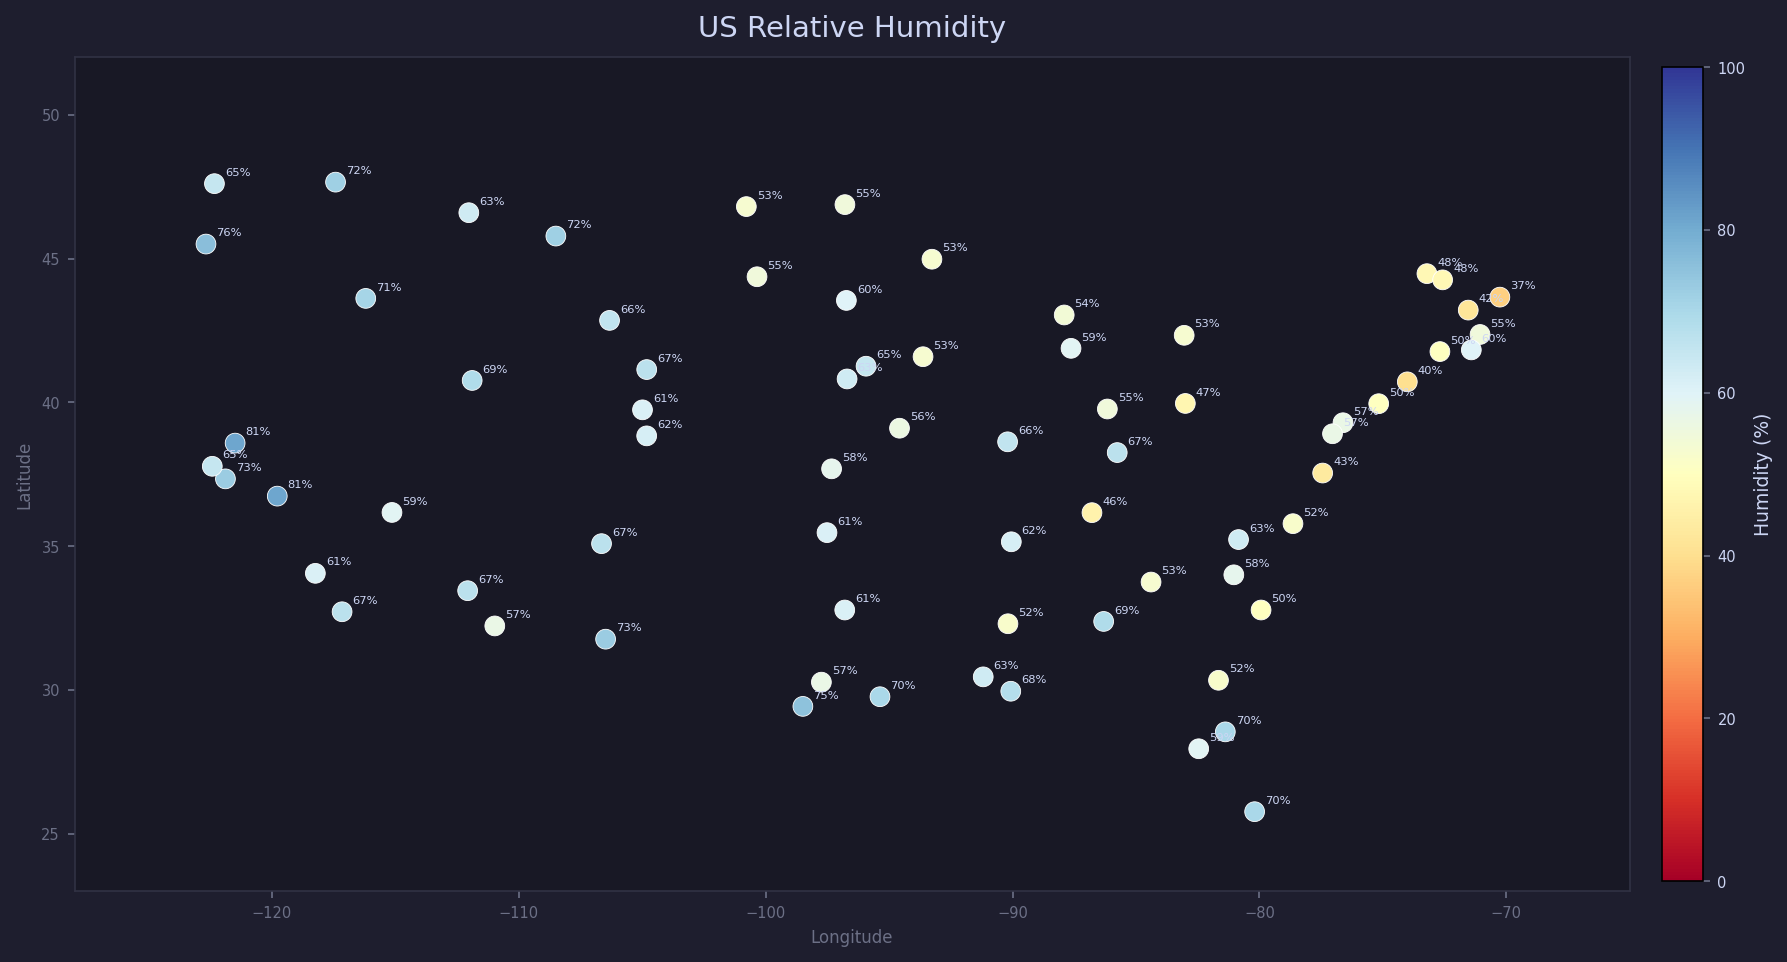
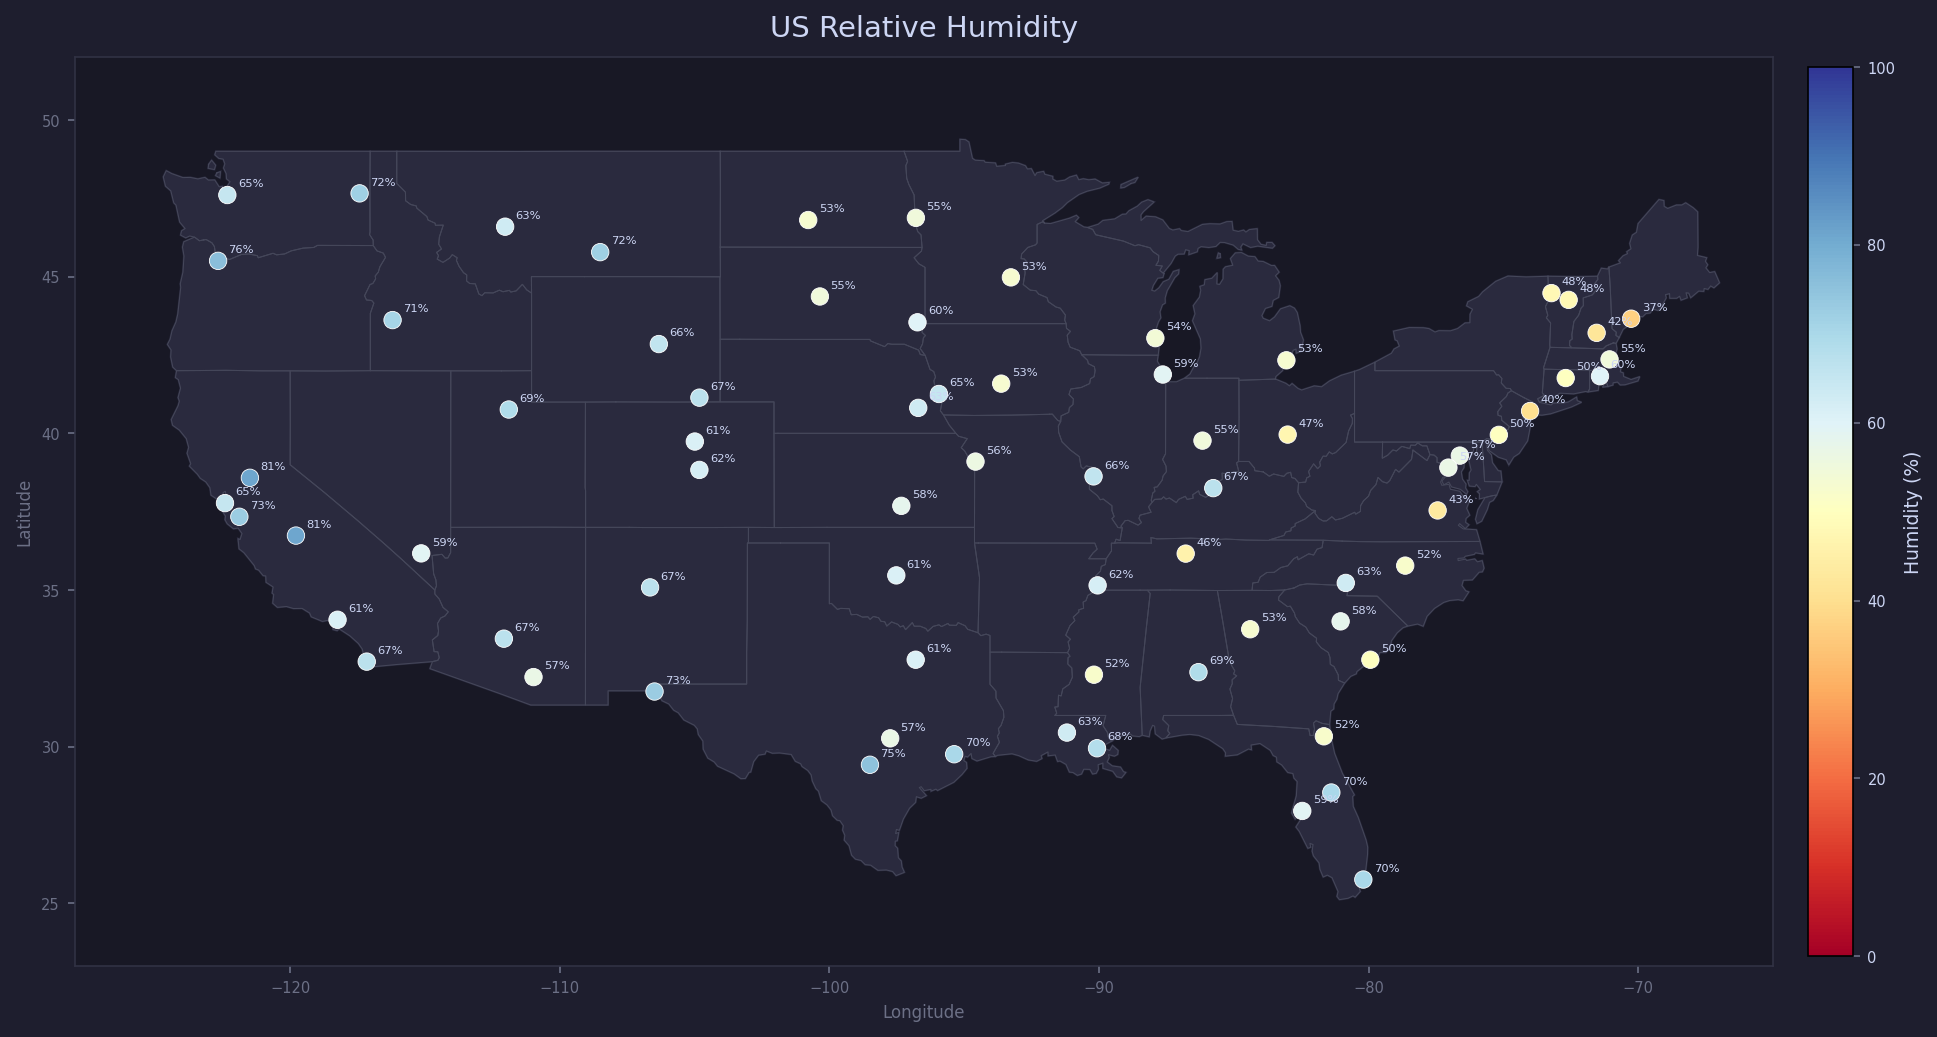
add state outlines to preview and gui map

diff --git a/generate_preview.py b/generate_preview.py
@@ -1,5 +1,8 @@
 """Run once to generate preview.png for the README."""
+import json
+import os
 import numpy as np
+import requests
 import matplotlib
 matplotlib.use("Agg")
 import matplotlib.pyplot as plt
@@ -7,22 +10,46 @@ import matplotlib.colors as mcolors
 
 from cities import CITIES
 
+GEOJSON_URL = "https://raw.githubusercontent.com/PublicaMundi/MappingAPI/master/data/geojson/us-states.json"
+GEOJSON_CACHE = "states.json"
+
+XLIM = (-128, -65)
+YLIM = (23,  52)
+
+
+def load_states():
+    if not os.path.exists(GEOJSON_CACHE):
+        print("downloading state boundaries...")
+        r = requests.get(GEOJSON_URL, timeout=15)
+        r.raise_for_status()
+        with open(GEOJSON_CACHE, "w") as f:
+            f.write(r.text)
+    with open(GEOJSON_CACHE) as f:
+        return json.load(f)
+
+
+def draw_states(ax, states):
+    for feature in states["features"]:
+        geom = feature["geometry"]
+        polys = (geom["coordinates"] if geom["type"] == "Polygon"
+                 else [p for p in geom["coordinates"]])
+        for poly in polys:
+            coords = poly if geom["type"] == "Polygon" else poly[0]
+            xs = [c[0] for c in coords]
+            ys = [c[1] for c in coords]
+            ax.fill(xs, ys, color="#2a2a3e", zorder=1)
+            ax.plot(xs, ys, color="#45475a", linewidth=0.5, zorder=2)
+
+
 np.random.seed(7)
 
-# Fake but geographically plausible humidity: southeast humid, southwest dry
 def sample_humidity(lat, lon):
-    base = 60
-    base -= (lon + 90) * 0.4   # drier further west
-    base += (lat - 35) * -0.5  # slightly more humid in south
-    base += np.random.uniform(-12, 12)
-    return int(np.clip(base, 10, 98))
+    base = 60 - (lon + 90) * 0.4 + (lat - 35) * -0.5
+    return int(np.clip(base + np.random.uniform(-12, 12), 10, 98))
 
 humidity = {city: sample_humidity(lat, lon) for city, (lat, lon) in CITIES.items()}
 
-XLIM = (-128, -65)
-YLIM = (23, 52)
-
-fig, ax = plt.subplots(figsize=(12, 6.5), facecolor="#1e1e2e")
+fig, ax = plt.subplots(figsize=(13, 7), facecolor="#1e1e2e")
 ax.set_facecolor("#181825")
 ax.set_xlim(*XLIM)
 ax.set_ylim(*YLIM)
@@ -33,6 +60,9 @@ ax.tick_params(colors="#6c7086", labelsize=7)
 for spine in ax.spines.values():
     spine.set_edgecolor("#313244")
 
+states = load_states()
+draw_states(ax, states)
+
 lons  = [CITIES[c][1] for c in humidity if XLIM[0] <= CITIES[c][1] <= XLIM[1] and YLIM[0] <= CITIES[c][0] <= YLIM[1]]
 lats  = [CITIES[c][0] for c in humidity if XLIM[0] <= CITIES[c][1] <= XLIM[1] and YLIM[0] <= CITIES[c][0] <= YLIM[1]]
 vals  = [humidity[c]  for c in humidity if XLIM[0] <= CITIES[c][1] <= XLIM[1] and YLIM[0] <= CITIES[c][0] <= YLIM[1]]
@@ -40,7 +70,7 @@ names = [c            for c in humidity if XLIM[0] <= CITIES[c][1] <= XLIM[1] an
 
 norm = mcolors.Normalize(vmin=0, vmax=100)
 sc = ax.scatter(lons, lats, c=vals, cmap="RdYlBu", norm=norm,
-                s=90, edgecolors="white", linewidths=0.4, zorder=5)
+                s=70, edgecolors="white", linewidths=0.4, zorder=5)
 
 for lon, lat, name, h in zip(lons, lats, names, vals):
     ax.annotate(f"{h}%", (lon, lat),

diff --git a/gui.py b/gui.py
@@ -1,3 +1,5 @@
+import json
+import os
 import threading
 import tkinter as tk
 from tkinter import ttk, messagebox
@@ -8,9 +10,36 @@ import matplotlib.pyplot as plt
 import matplotlib.cm as cm
 import matplotlib.colors as mcolors
 from matplotlib.backends.backend_tkagg import FigureCanvasTkAgg
+import requests
 
 from cities import CITIES
 from fetch import fetch_humidity
+
+GEOJSON_URL   = "https://raw.githubusercontent.com/PublicaMundi/MappingAPI/master/data/geojson/us-states.json"
+GEOJSON_CACHE = "states.json"
+
+
+def load_states():
+    if not os.path.exists(GEOJSON_CACHE):
+        r = requests.get(GEOJSON_URL, timeout=15)
+        r.raise_for_status()
+        with open(GEOJSON_CACHE, "w") as f:
+            f.write(r.text)
+    with open(GEOJSON_CACHE) as f:
+        return json.load(f)
+
+
+def draw_states(ax, states):
+    for feature in states["features"]:
+        geom = feature["geometry"]
+        polys = (geom["coordinates"] if geom["type"] == "Polygon"
+                 else [p for p in geom["coordinates"]])
+        for poly in polys:
+            coords = poly if geom["type"] == "Polygon" else poly[0]
+            xs = [c[0] for c in coords]
+            ys = [c[1] for c in coords]
+            ax.fill(xs, ys, color="#2a2a3e", zorder=1)
+            ax.plot(xs, ys, color="#45475a", linewidth=0.5, zorder=2)
 
 # Bounding box for continental US + insets for AK/HI
 CONUS_XLIM = (-128, -65)
@@ -30,7 +59,16 @@ class App(tk.Tk):
         self.resizable(True, True)
 
         self._humidity: dict = {}
+        self._states = None
         self._build_ui()
+        threading.Thread(target=self._load_states_bg, daemon=True).start()
+
+    def _load_states_bg(self):
+        try:
+            self._states = load_states()
+            self.after(0, self._redraw)
+        except Exception:
+            pass  # map still works without outlines
 
     # ---- UI construction ----
 
@@ -109,6 +147,9 @@ class App(tk.Tk):
             ax.annotate(f"{h}%", (lon, lat),
                         textcoords="offset points", xytext=(5, 4),
                         fontsize=5.5, color="#cdd6f4", zorder=6)
+
+        if self._states:
+            draw_states(ax, self._states)
 
         if not hasattr(self, "_cbar") or self._cbar is None:
             self._cbar = self._fig.colorbar(sc, ax=ax, fraction=0.025, pad=0.02)
